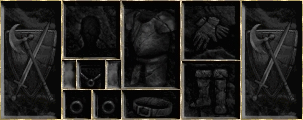
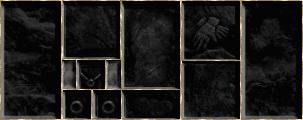
minor
* added background images for equipment
* updated two saved characters to include points from quests

diff --git a/data/all.js b/data/all.js
@@ -1077,7 +1077,10 @@ function equip(group, val) {
 		if (typeof(equipped[group].base) != 'undefined') { base = equipped[group].base }
 		document.getElementById(group+"_image").src = getItemImage(group,base,src)
 	} else {
-		document.getElementById(group+"_image").src = "./images/items/none.png"
+		var img = "./images/items/none.png"
+		if (group == "helm" || group == "armor" || group == "boots" || group == "belt" || group == "weapon" || group == "offhand") { img = "./images/items/blank_"+group+".png" }
+		document.getElementById(group+"_image").src = img
+		document.getElementById("tooltip_inventory").style.display = "none"
 	}
 	
 	if (auraName != "" && auraLevel != 0) {		// TODO: Why does this break things if called earlier? (item image wasn't appearing)
@@ -2359,6 +2362,7 @@ function updateSecondaryStats() {
 	if (c.running > 0) { movespeed = round(9 * movement) } else { movespeed = round(6 * movement) }
 	document.getElementById("velocity").innerHTML = movespeed + " yds/s"
 	document.getElementById("frw").innerHTML = Math.floor(c.frw + c.frw_skillup); if (c.frw > 0 || c.frw_skillup > 0) { document.getElementById("frw").innerHTML += "%" }
+	//document.getElementById("frw").innerHTML += " ("+movespeed+" yds/s)"
 	
 	document.getElementById("life_leech").innerHTML = c.life_leech; if (c.life_leech > 0) { document.getElementById("life_leech").innerHTML += "%" }
 	document.getElementById("mana_leech").innerHTML = c.mana_leech; if (c.mana_leech > 0) { document.getElementById("mana_leech").innerHTML += "%" }
